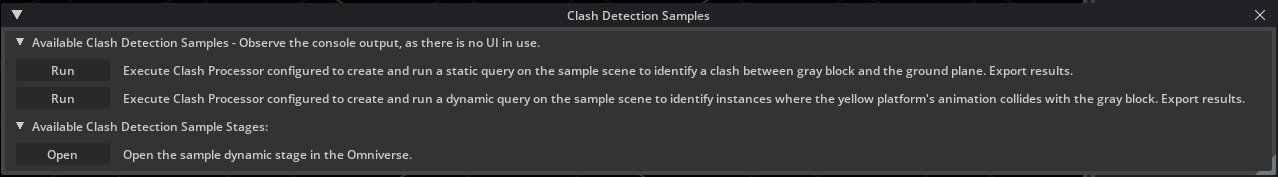
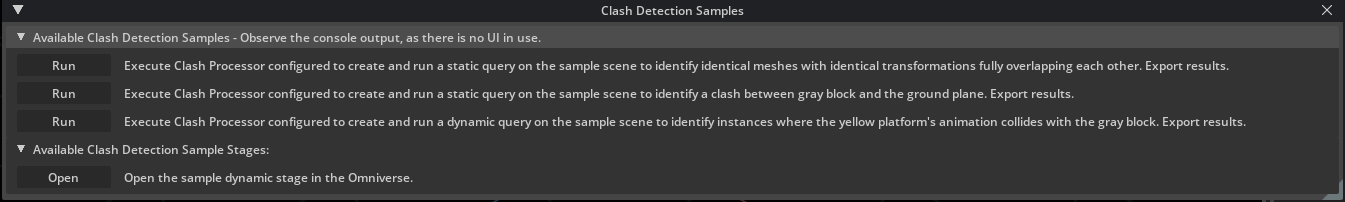
106.4 release

diff --git a/source/extensions/omni.samples.clashdetection/omni/physxclashdetectionsamples/clash_detection_processor.py b/source/extensions/omni.samples.clashdetection/omni/physxclashdetectionsamples/clash_detection_processor.py
@@ -39,6 +39,7 @@ class ClashDetectionProcessor:
         json_path_name: str = '',
         query_name: str = '',
         comment: str = '',
+        search_for_duplicates: bool = False,
     ):
         """
         Parameters:
@@ -54,6 +55,7 @@ class ClashDetectionProcessor:
         json_path_name: str - full path to JSON file if also export to JSON is needed. No clash images will be exported.
         query_name: str - custom name for the clash detection query which will be generated based on parameters above.
         comment: str - custom comment for the clash detection query which will be generated based on parameters above.
+        search_for_duplicates: True to search for static identical meshes with identical transformations (fully overlapping each other). Overrules dynamic setting.
         """
         self._stage_path_name = stage_path_name
         self._html_path_name = html_path_name
@@ -63,11 +65,12 @@ class ClashDetectionProcessor:
             object_a_path=object_a_path,
             object_b_path=object_b_path,
             clash_detect_settings={
-                SettingId.SETTING_LOGGING.name: logging is True,
-                SettingId.SETTING_TOLERANCE.name: float(tolerance),
+                SettingId.SETTING_LOGGING.name: logging,
+                SettingId.SETTING_TOLERANCE.name: tolerance,
                 SettingId.SETTING_DYNAMIC.name: dynamic,
-                SettingId.SETTING_DYNAMIC_START_TIME.name: float(start_time),
-                SettingId.SETTING_DYNAMIC_END_TIME.name: float(end_time),
+                SettingId.SETTING_DYNAMIC_START_TIME.name: start_time,
+                SettingId.SETTING_DYNAMIC_END_TIME.name: end_time,
+                SettingId.SETTING_DUP_MESHES.name: search_for_duplicates,
             },
             comment=comment
         )
@@ -79,14 +82,16 @@ class ClashDetectionProcessor:
         Returns: True on success, False otherwise.
         """
         column_defs = [
-            ExportColumnDef(0, 'Clash ID'),
-            ExportColumnDef(1, 'Tolerance'),
-            ExportColumnDef(2, 'Overlapping Tris', True),
-            ExportColumnDef(3, 'Clash Start'),
-            ExportColumnDef(4, 'Clash End'),
-            ExportColumnDef(5, 'Clashing Frames', True),
-            ExportColumnDef(6, 'Object A'),
-            ExportColumnDef(7, 'Object B'),
+            ExportColumnDef(0, "Clash ID"),
+            ExportColumnDef(1, "Min Distance", True),
+            ExportColumnDef(2, "Tolerance", True),
+            ExportColumnDef(3, "Overlap Tris", True),
+            ExportColumnDef(4, "Clash Start"),
+            ExportColumnDef(5, "Clash End"),
+            ExportColumnDef(6, "Records", True),
+            ExportColumnDef(7, "Object A"),
+            ExportColumnDef(8, "Object B"),
+            ExportColumnDef(9, "Comment"),
         ]
 
         overlaps = clash_data.find_all_overlaps_by_query_id(self._query.identifier, False)
@@ -95,13 +100,15 @@ class ClashDetectionProcessor:
         rows = [
             [
                 o.overlap_id,
+                f"{o.min_distance:.3f}",
                 f"{o.tolerance:.3f}",
                 str(o.overlap_tris),
                 f"{o.start_time:.3f}",
                 f"{o.end_time:.3f}",
                 str(o.num_records),
                 o.object_a_path,
-                o.object_b_path
+                o.object_b_path,
+                o.comment,
             ]
             for o in overlaps.values()
         ]
@@ -218,12 +225,17 @@ class ClashDetectionProcessor:
 
         print("Setting up clash detection engine...")
         clash_detect = ClashDetection()
-        if not clash_detect.set_scope(stage, self._query.object_a_path, self._query.object_b_path):
-            print("Failed to set clash detection scope.")
-            return False
         if not clash_detect.set_settings(self._query.clash_detect_settings, stage):
             print("Failed to set clash detection settings.")
-            return False
+            return 0
+        if not clash_detect.set_scope(
+            stage,
+            self._query.object_a_path,
+            self._query.object_b_path,
+            self._query.clash_detect_settings.get(SettingId.SETTING_DUP_MESHES.name, False)
+        ):
+            print("Failed to set clash detection scope.")
+            return 0
 
         num_overlaps = self._detect_overlaps(stage, clash_detect, clash_data)
 

diff --git a/source/extensions/omni.samples.clashdetection/omni/physxclashdetectionsamples/clash_detection_sample_window.py b/source/extensions/omni.samples.clashdetection/omni/physxclashdetectionsamples/clash_detection_sample_window.py
@@ -76,6 +76,23 @@ class ClashDetectionSamplesWindow(ui.Window):
         if hasattr(os, "startfile"):
             os.startfile(self._temp_dir_path)
 
+    def _run_clash_processor_on_sample_stage_dups(self):
+        html_path_name = str(pathlib.Path(self._temp_dir_path).joinpath("dups_sample_export.html"))
+        json_path_name = str(pathlib.Path(self._temp_dir_path).joinpath("dups_sample_export.json"))
+
+        cdp = ClashDetectionProcessor(
+            stage_path_name=self._stage_path_name,
+            html_path_name=html_path_name,
+            json_path_name=json_path_name,
+            query_name="Example Search for Duplicates Query",
+            comment="A static clash query designed to identify identical meshes with identical transformations fully overlapping each other.",
+            search_for_duplicates=True
+        )
+        cdp.run()
+
+        if hasattr(os, 'startfile'):
+            os.startfile(self._temp_dir_path)
+
     def _open_sample_stage(self):
         async def open_sample_stage():
             import omni.usd
@@ -88,6 +105,11 @@ class ClashDetectionSamplesWindow(ui.Window):
             with ui.VStack():
                 with ui.CollapsableFrame("Available Clash Detection Samples - Observe the console output, as there is no UI in use.", height=0):
                     with ui.VStack():
+                        with ui.HStack(height=0):
+                            ui.Spacer(width=5)
+                            ui.Button("Run", width=100, clicked_fn=self._run_clash_processor_on_sample_stage_dups)
+                            ui.Spacer(width=10)
+                            ui.Label("Execute Clash Processor configured to create and run a static query on the sample scene to identify identical meshes with identical transformations fully overlapping each other. Export results.")
                         with ui.HStack(height=0):
                             ui.Spacer(width=5)
                             ui.Button("Run", width=100, clicked_fn=self._run_clash_processor_on_sample_stage_static)

diff --git a/README.md b/README.md
@@ -71,6 +71,7 @@ Git Installed: If Git is not already installed on your system, you can download 
 We strongly recommend you to watch the [Getting Started video](https://docs.omniverse.nvidia.com/extensions/latest/ext_clash-detection.html#clashdetection) before working with Clash Detection.
 
 Explore documentation and video tutorial for the Clash Detection SDK online:
+- [Clash Detection SDK Changelog](https://docs.omniverse.nvidia.com/extensions/latest/ext_clash-detection/clash-detection-changelog.html)
 - [Introduction, Video Tutorial & Installation](https://docs.omniverse.nvidia.com/extensions/latest/ext_clash-detection.html#clashdetection)
 - [How to Work with the UI](https://docs.omniverse.nvidia.com/extensions/latest/ext_clash-detection/clash-detection-ui.html)
 - [How to Work with the Clash Detection Dedicated Viewport](https://docs.omniverse.nvidia.com/extensions/latest/ext_clash-detection/clash-detection-viewport.html)

diff --git a/source/extensions/omni.samples.clashdetection/docs/CHANGELOG.md b/source/extensions/omni.samples.clashdetection/docs/CHANGELOG.md
@@ -2,34 +2,22 @@
 
 This document records all notable changes to ``Clash Detection Samples`` extension.
 
-## [106.2.0] - 2024-10-07
+To view the changelog for the ``Clash Detection SDK``, please refer to the [Online Omniverse Documentation](https://docs.omniverse.nvidia.com/extensions/latest/ext_clash-detection/clash-detection-changelog.html).
 
-Version bump.
+## [106.4.0] - 2024-12-05
+### Added
+Initial Release
 
-## [106.1.1] - 2024-09-10
+- Added a new example query to illustrate the duplicate mesh detection feature.
 
-Version bump.
+## [106.1.0] - 2024-02-29
 
-## [106.1.0] - 2024-09-06
+### Added
+Initial Release
 
-Version bump.
+### Changed
 
-## [106.0.11] - 2024-06-14
+### Removed
 
-Version bump.
 
-## [106.0.10] - 2024-06-07
 
-Version bump.
-
-## [106.0.9] - 2024-05-30
-
-Version bump.
-
-## [106.0.8] - 2024-05-15
-
-Version bump.
-
-## [106.0.7] - 2024-03-22
-
-Initial Release.

diff --git a/VERSION.md b/VERSION.md
@@ -1,1 +1,1 @@
-106.2.0
+106.4.0
